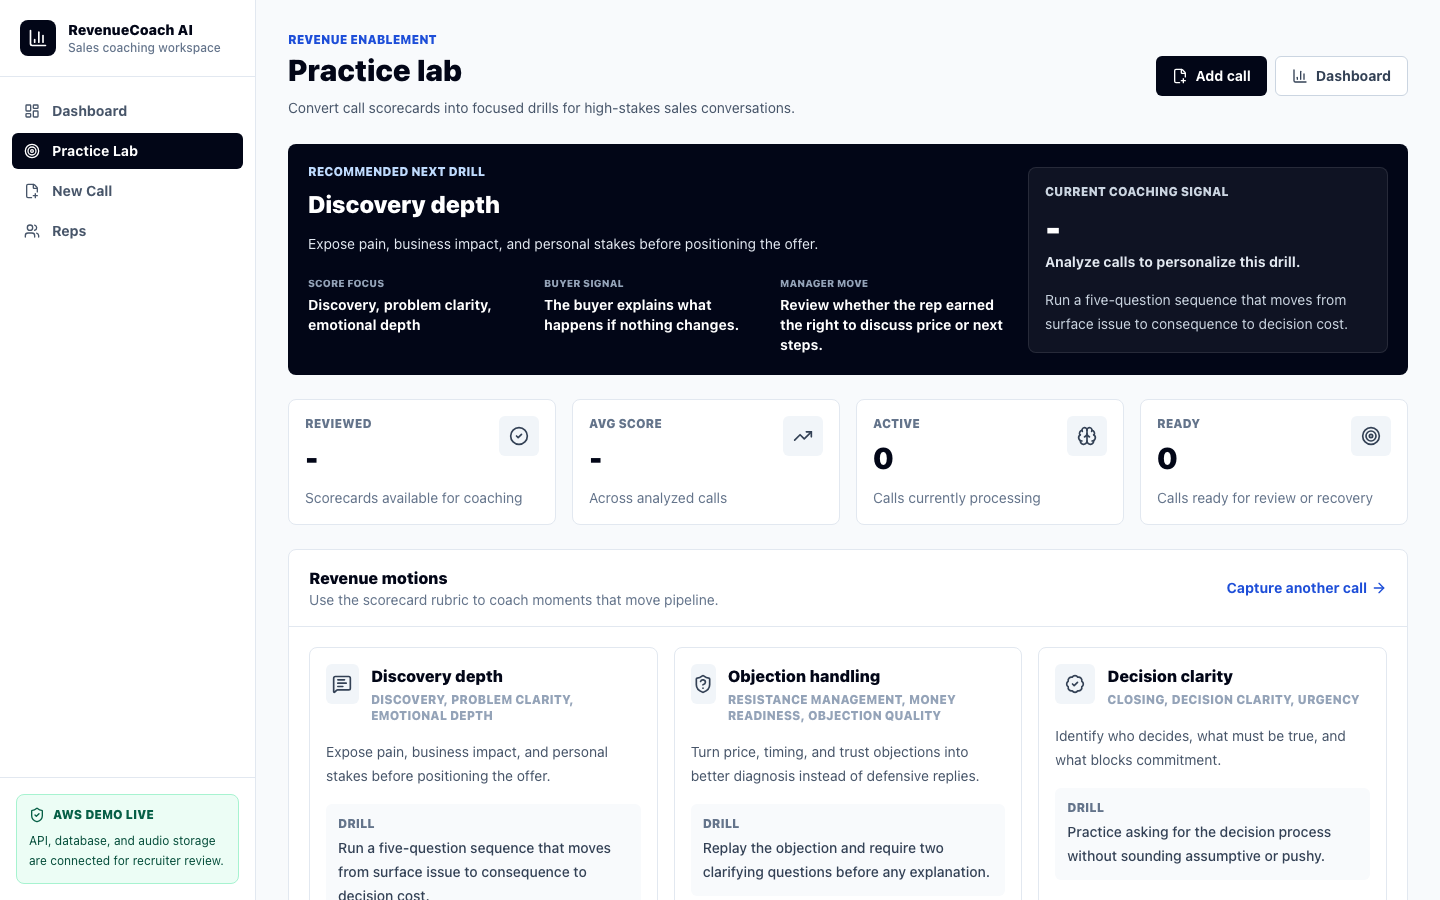
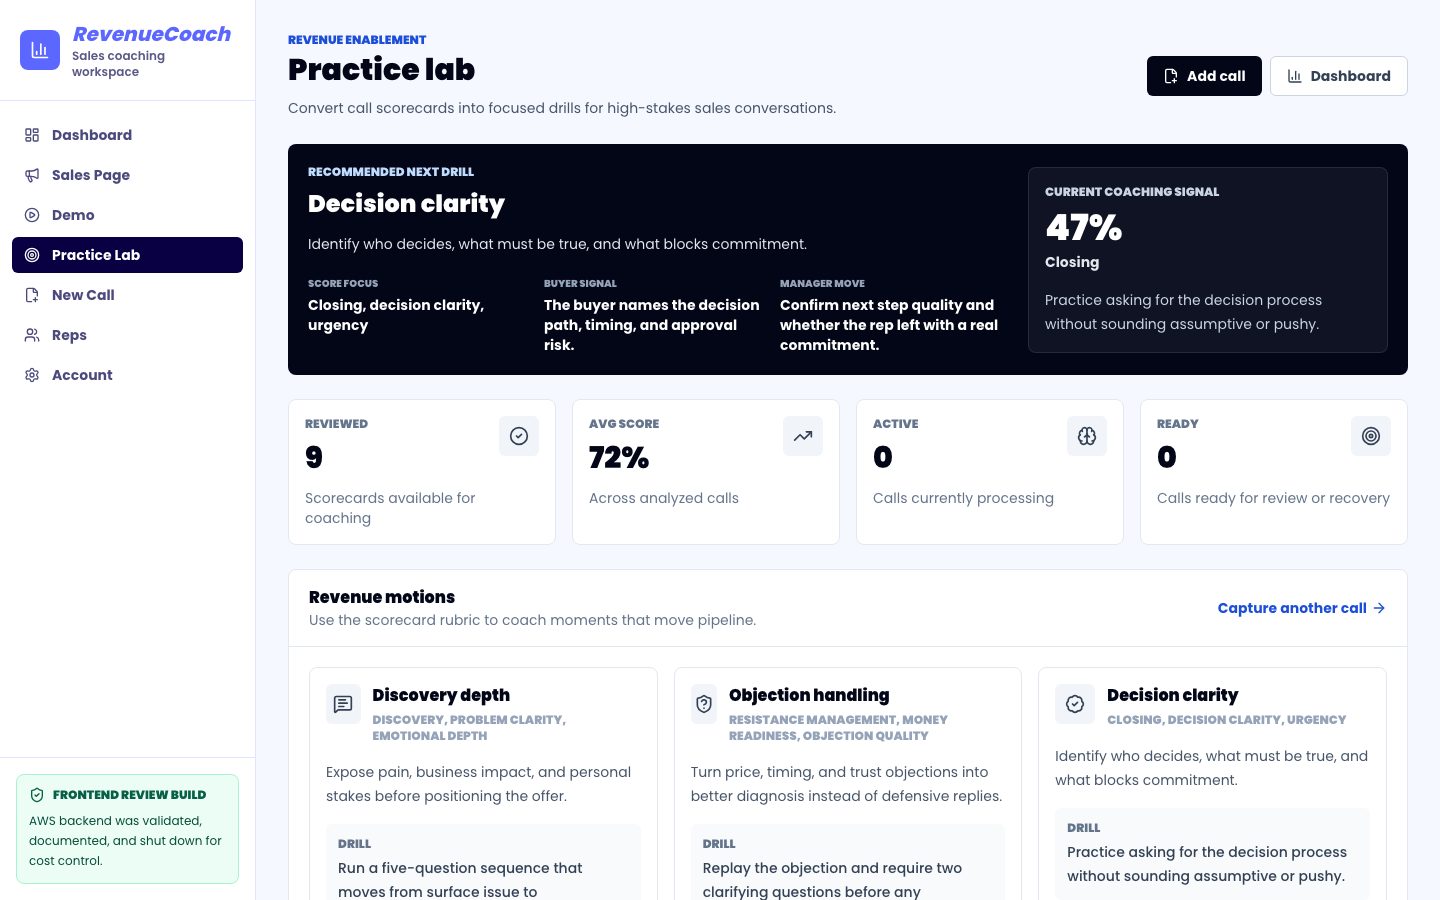
Correct RevenueCoach shutdown status copy

diff --git a/frontend/components/Layout.tsx b/frontend/components/Layout.tsx
@@ -62,10 +62,10 @@ export default function Layout({ children }: { children: React.ReactNode }) {
             <div className="rounded-lg border border-emerald-200 bg-emerald-50 p-3">
               <div className="flex items-center gap-2 text-xs font-black uppercase text-emerald-800">
                 <ShieldCheck className="h-4 w-4" aria-hidden="true" />
-                AWS demo live
+                Frontend review build
               </div>
               <p className="mt-2 text-xs leading-5 text-emerald-900">
-                API, database, and audio storage are connected for recruiter review.
+                AWS backend was validated, documented, and shut down for cost control.
               </p>
             </div>
           </div>

diff --git a/docs/aws-shutdown-2026-05-22.md b/docs/aws-shutdown-2026-05-22.md
@@ -6,9 +6,17 @@ This note records the validated deployment and the AWS cost-control shutdown per
 
 ## Screenshots
 
-- Product UI preview: [screenshots/revenuecoach-product-preview.png](screenshots/revenuecoach-product-preview.png)
-- Live Cloudflare Pages sales page after AWS shutdown: [screenshots/revenuecoach-sales-live-2026-05-23.png](screenshots/revenuecoach-sales-live-2026-05-23.png)
-- Dashboard after AWS backend shutdown: [screenshots/revenuecoach-dashboard-after-shutdown-2026-05-23.png](screenshots/revenuecoach-dashboard-after-shutdown-2026-05-23.png)
+Product UI preview:
+
+![Product UI preview](screenshots/revenuecoach-product-preview.png)
+
+Live Cloudflare Pages sales page after AWS shutdown:
+
+![Live Cloudflare Pages sales page after AWS shutdown](screenshots/revenuecoach-sales-live-2026-05-23.png)
+
+Dashboard after AWS backend shutdown:
+
+![Dashboard after AWS backend shutdown](screenshots/revenuecoach-dashboard-after-shutdown-2026-05-23.png)
 
 ## Deployment Evidence
 
